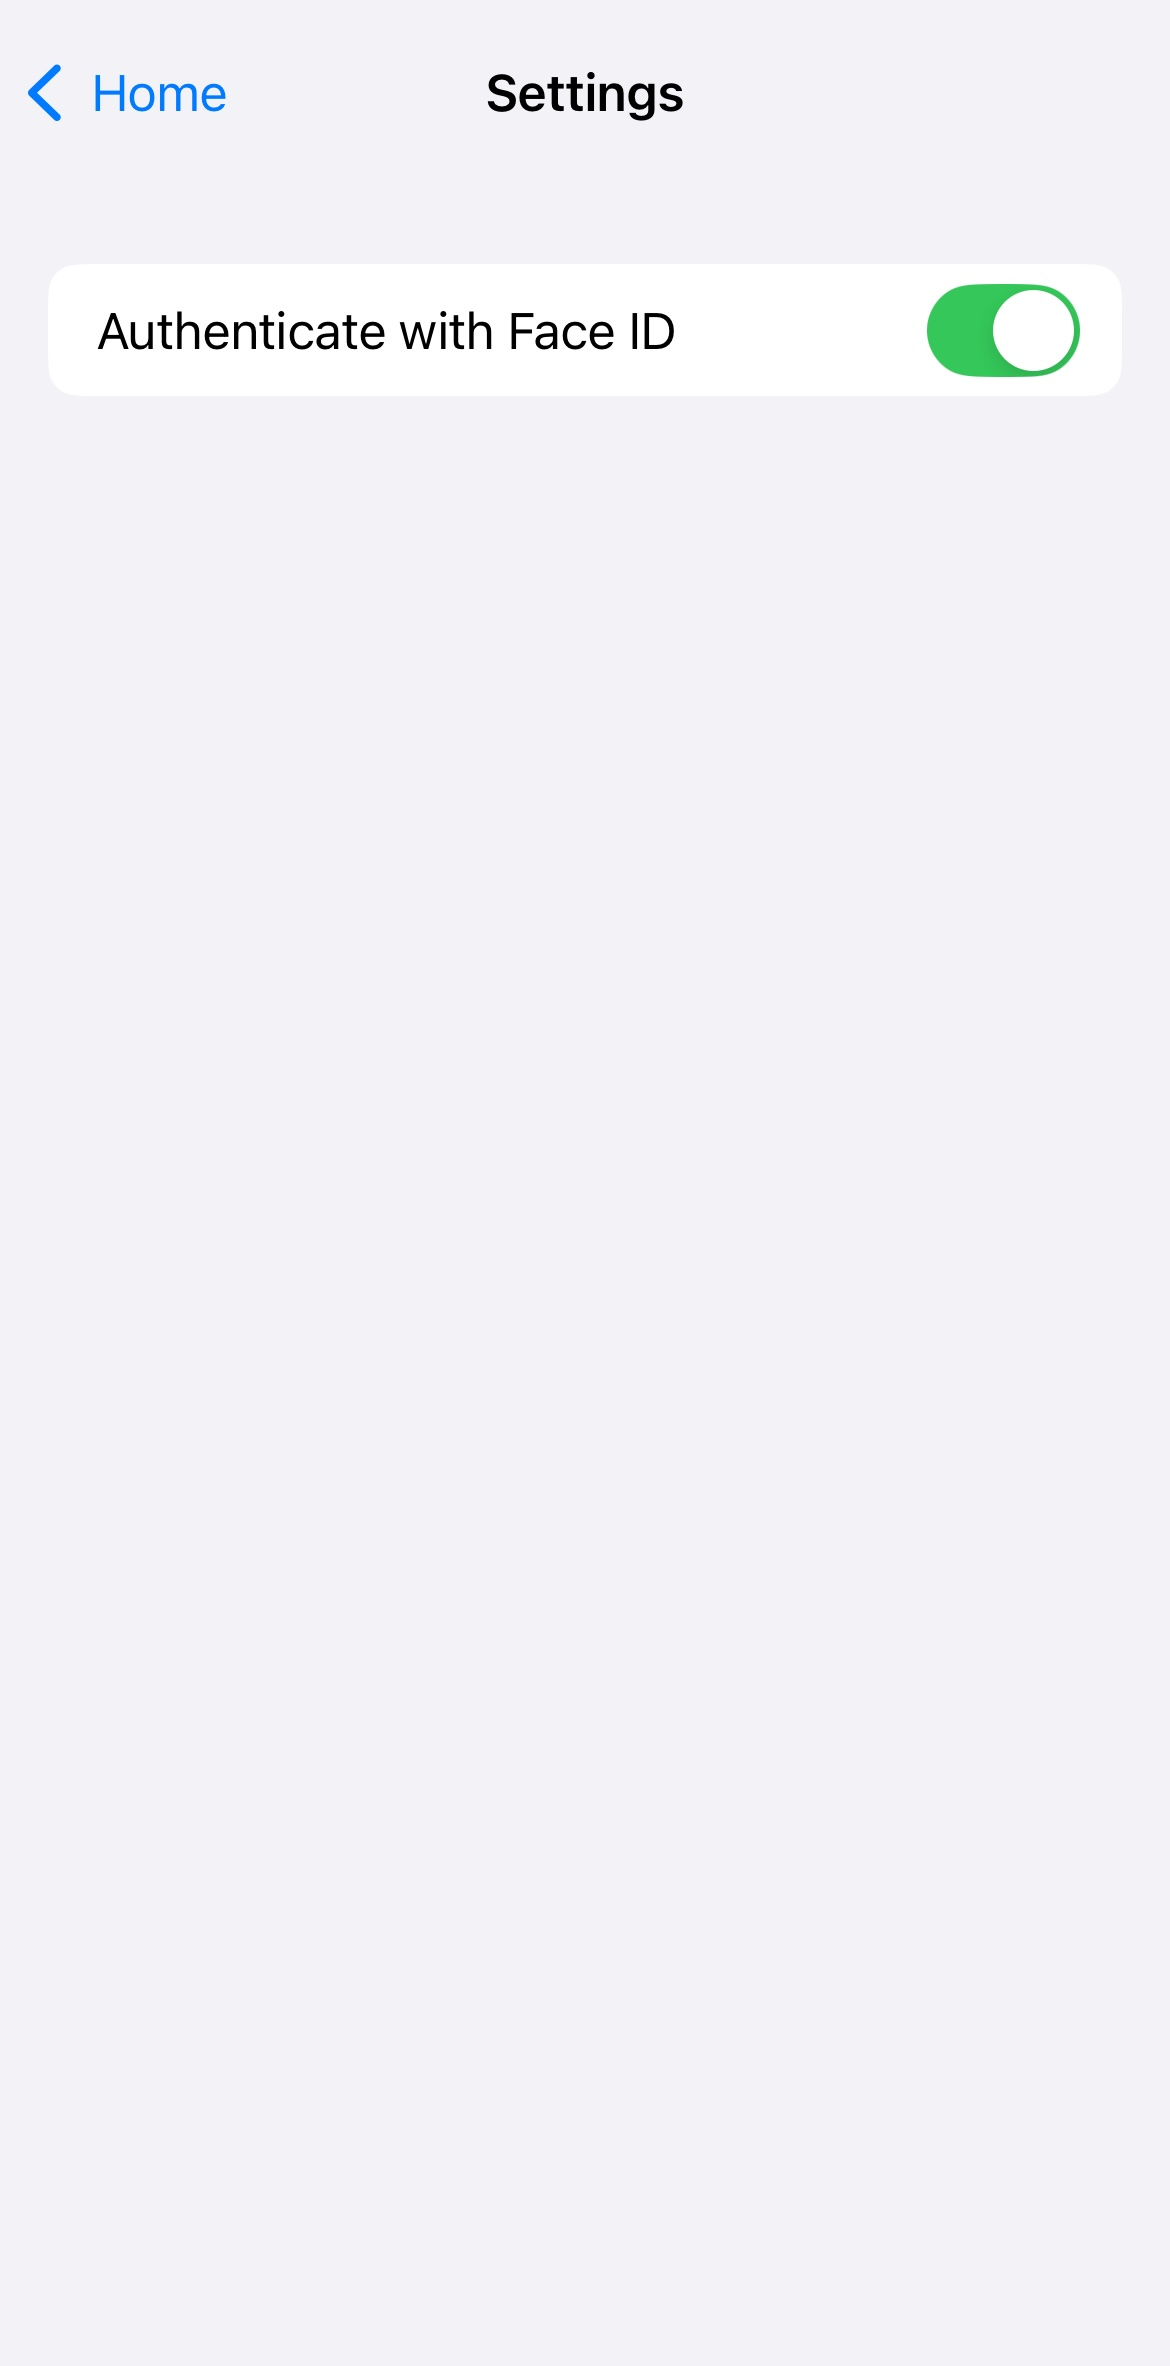
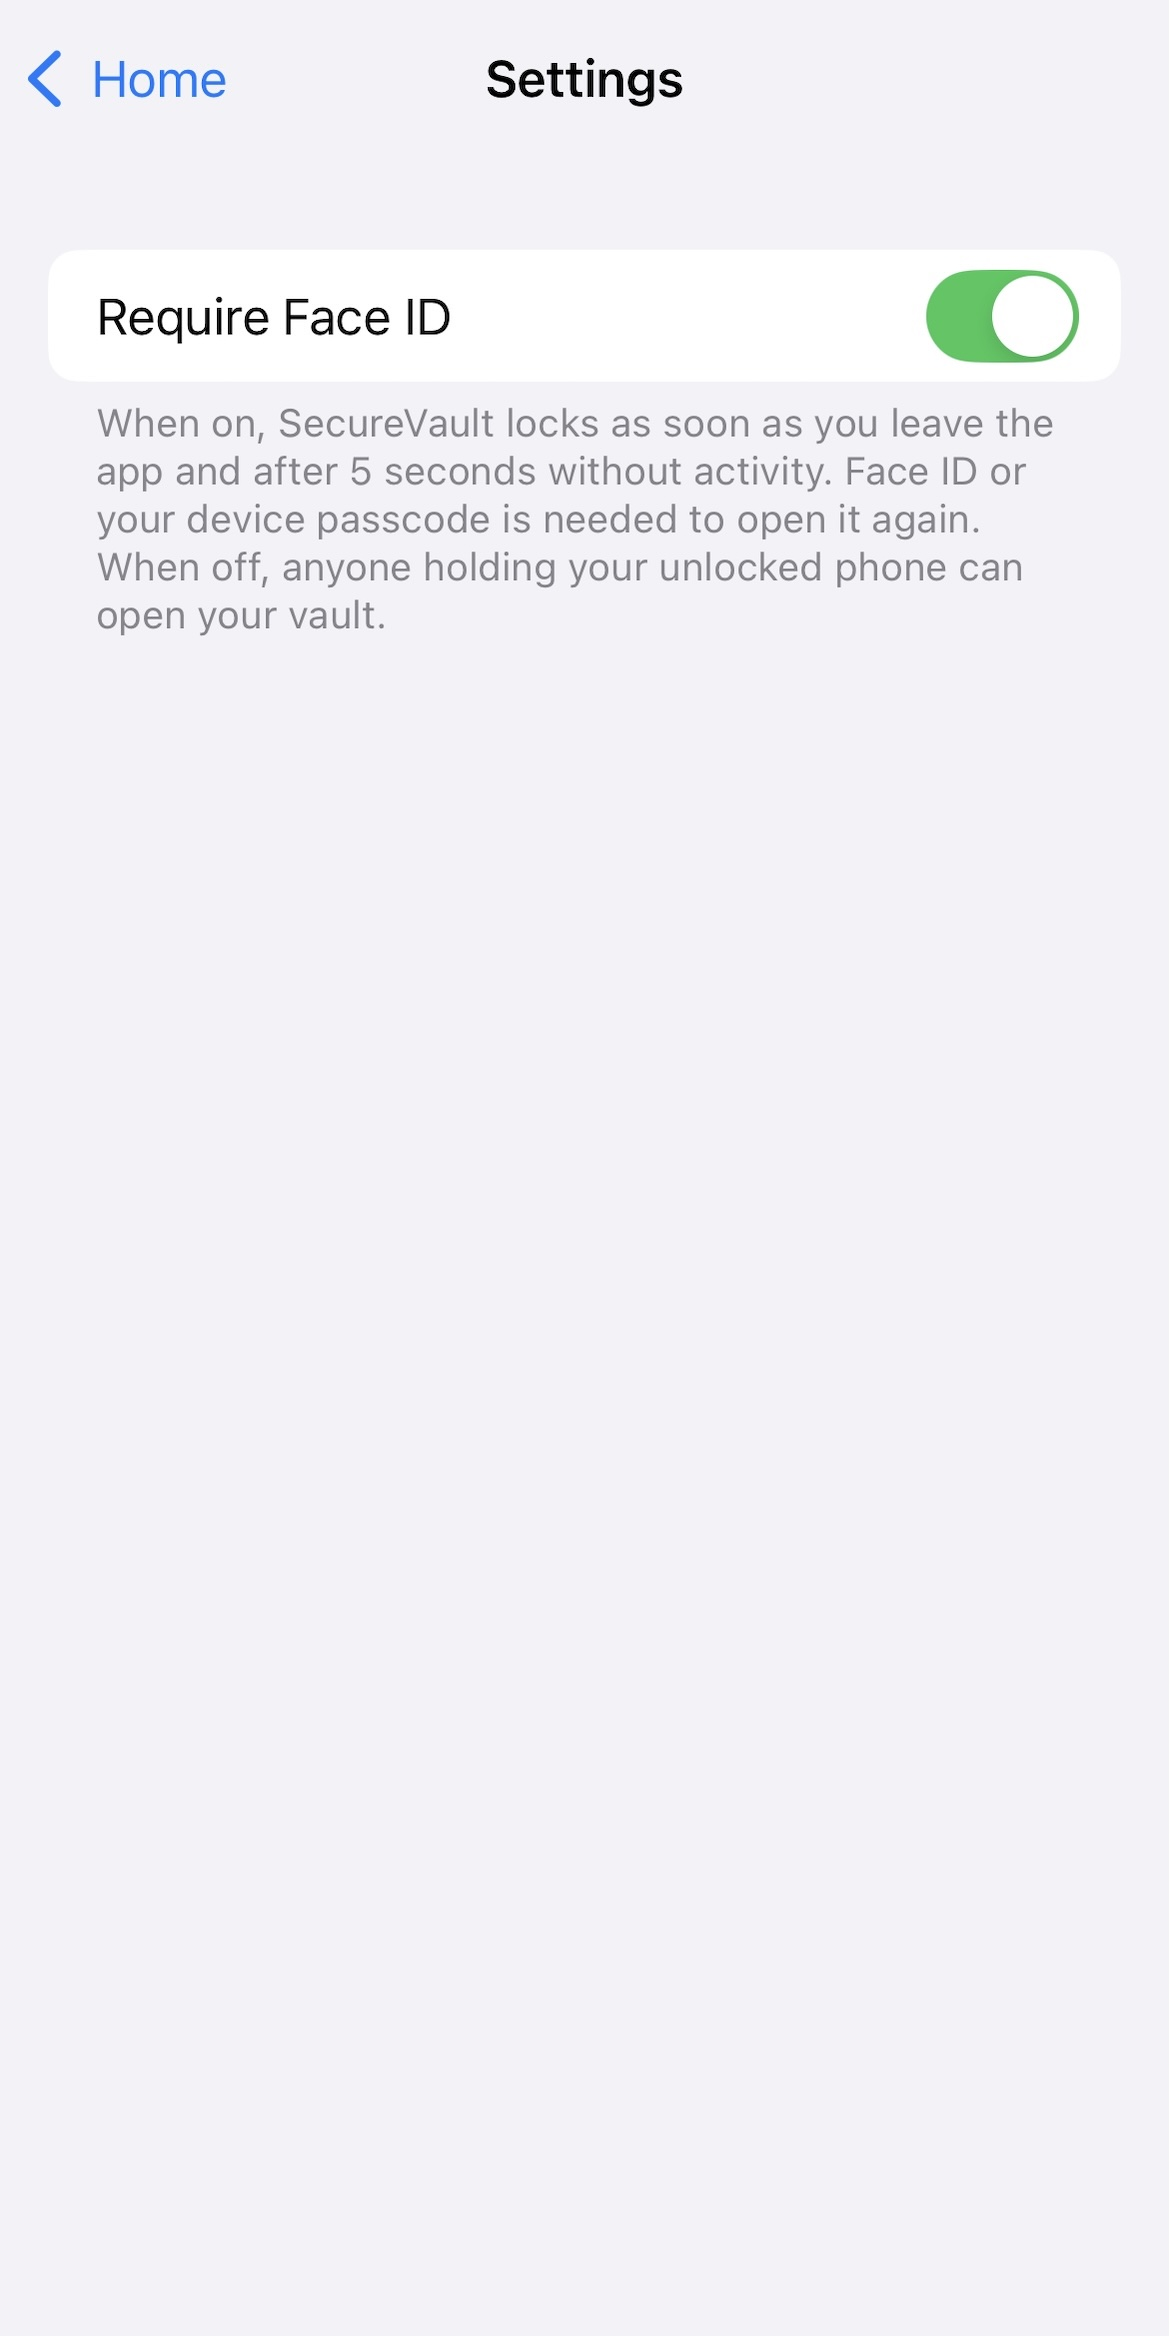
Changed screenshot
also simplified code

diff --git a/SecureVault/SecureVaultApp.swift b/SecureVault/SecureVaultApp.swift
@@ -48,7 +48,7 @@ struct SecureVaultApp: App {
             }
             .onAppear {
                 guard autoLock == nil else { return }
-                let monitor = AutoLockMonitor { [viewModel] in viewModel.lock() }
+                let monitor = AutoLockMonitor { viewModel.lock() }
                 monitor.installTouchTracking()
                 autoLock = monitor
             }
